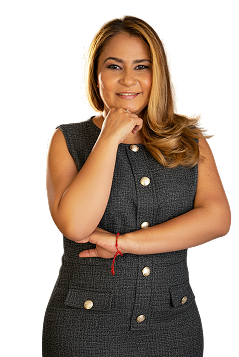
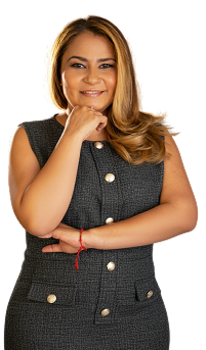
cambios en la img de conferecista

diff --git a/assets/css/styles/conferees/Speakers.css b/assets/css/styles/conferees/Speakers.css
@@ -51,7 +51,7 @@
 
 .speaker-img {
   width: 300px;
-  height: 480px;
+  height: 490px;
   border-radius: 12px;
   object-fit: cover;
 }
